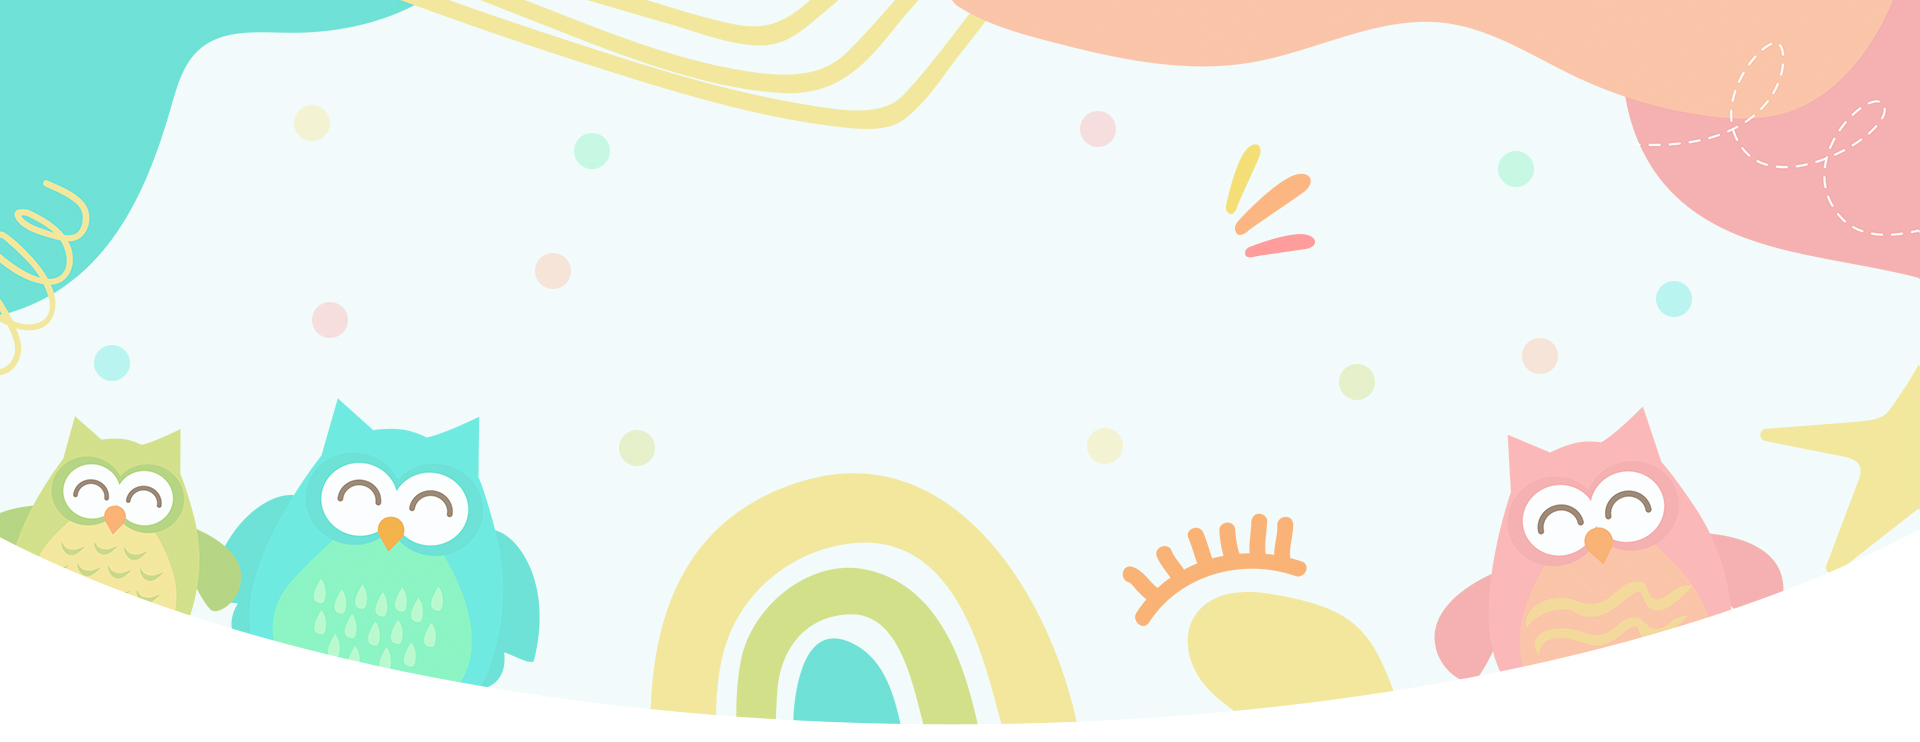
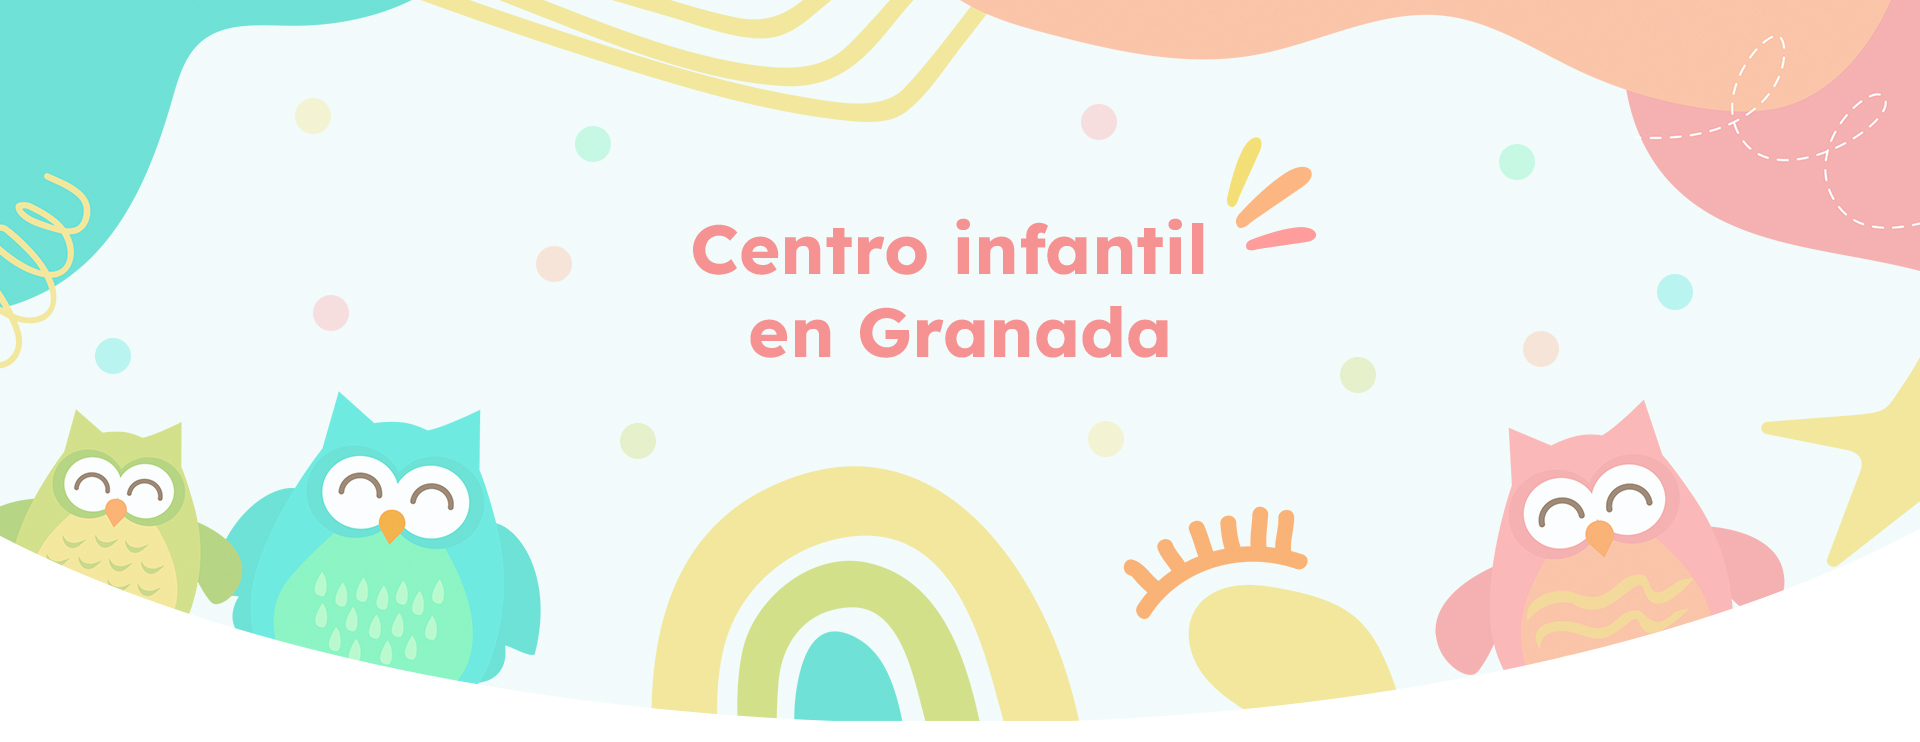
modificar cabecera

diff --git a/src/components/Datos/Datos.css b/src/components/Datos/Datos.css
@@ -1,103 +1,97 @@
-@import "../../constantes/colores.css";
-
 .contenedor {
-    position: relative;
-    background-color: var(--color-amarillo-claro);
-    min-height: auto;
-  }
-  
+  position: relative;
+}
+
+
+
 .contenedor .texto {
-    position: absolute;
+  position: absolute;
+  top: 50%;
+  left: 60%;
+  transform: translate(-30%, -30%);
+
+}
+.contenedor .img-container {
+  position: absolute;
+  top: -180px;
+  left: 20%;
+  transform: translate(-30%, -30%);
+  width: 10%;
+
+}
+.contenedor .img-container2 {
+  position: absolute;
+  top: -180px;
+  left: 40%;
+  transform: translate(-30%, -30%);
+  width: 10%;
+
+}
+.contenedor .img-container3 {
+  position: absolute;
+  top: -180px;
+  left: 60%;
+  transform: translate(-30%, -30%);
+  width: 10%;
+
+}
+.contenedor .img-container4 {
+  position: absolute;
+  top: -180px;
+  left: 80%;
+  transform: translate(-30%, -30%);
+  width: 10%;
+
+}
+.contenedor .textoIcon {
+  position: absolute;
+  top: -40px;
+  left: 20%;
+  transform: translate(-30%, -30%);
+  width: 10%;
+
+}
+.contenedor .textoIcon2 {
+  position: absolute;
+  top: -40px;
+  left: 40%;
+  transform: translate(-30%, -30%);
+  width: 10%;
+
+}
+.contenedor .textoIcon3 {
+  position: absolute;
+  display: flex;
+  top: -40px;
+  left: 60%;
+  transform: translate(-30%, -30%);
+  width: 10%;
+
+}
+.contenedor .textoIcon4 {
+  position: absolute;
+  top: -40px;
+  left: 80%;
+  transform: translate(-30%, -30%);
+  width: 10%;
+
+}
+/* Media queries para ajustar el diseño en diferentes tamaños de pantalla */
+@media (max-width: 768px) {
+.texto {
+    left: 50%;
+    max-width: 100%;
+    font-size: 1.5vw; /* Tamaño de fuente en vw */
+  }
+}
+
+@media (max-width: 576px) {
+  .contenedor .texto {
     top: 50%;
-    left: 60%;
-    transform: translate(-30%, -30%);
-   
-  }
-
-  .img-position1{
-    left: 20%;
-  }
-  .img-position2{
-    left: 40%;
+    left: 50%;
+    max-width: 10%;
+    font-size: 1.5vw; /* Tamaño de fuente en vw */
+      height: 10%;
 
   }
-  .img-position3{
-    left: 60%;
-  }
-  .img-position4{
-    left: 80%;
-  }
-  .backg-amarillo{
-    background-color: var(--color-amarillo-claro);
-    min-height: auto;
-  }
-
-  .contenedor .img-container {
-    position: absolute;
-    top: -150px;
-    transform: translate(-30%, -30%);
-    width: 8%;
-  }
-  .contenedor .textoIcon {
-    position: absolute;
-    top: -40px;
-    transform: translate(-30%, -30%);
-    width: 10%;
-  }
-  .text-position1{
-    left: 20%;
-
-  }
-  .text-position2{
-    left: 40%;
-
-  }
-  .text-position3{
-    left: 60%;
-
-  }
-  .text-position4{
-    left: 80%;
-
-  }
-  .contenedor .textoIcon2 {
-    position: absolute;
-    top: -40px;
-    transform: translate(-30%, -30%);
-    width: 10%;
-   
-  }
-  .contenedor .textoIcon3 {
-    position: absolute;
-    display: flex;
-    top: -40px;
-    transform: translate(-30%, -30%);
-    width: 10%;
-   
-  }
-  .contenedor .textoIcon4 {
-    position: absolute;
-    top: -40px;
-    transform: translate(-30%, -30%);
-    width: 10%;
-   
-  }
-  /* Media queries para ajustar el diseño en diferentes tamaños de pantalla */
-  @media (max-width: 768px) {
- .texto {
-      left: 50%;
-      max-width: 100%;
-      font-size: 1.5vw; /* Tamaño de fuente en vw */
-    }
-  }
-  
-  @media (max-width: 576px) {
-    .contenedor .texto {
-      top: 50%;
-      left: 50%;
-      max-width: 10%;
-      font-size: 1.5vw; /* Tamaño de fuente en vw */
-        height: 10%;
-      
-    }
-  }
+}

diff --git a/src/views/Home/Home.jsx b/src/views/Home/Home.jsx
@@ -1,4 +1,3 @@
-import { CarruselHome } from "../../components/CarruselHome/CarruselHome";
 import { Descripcion } from "../../components/Descripcion/Descripcion";
 import { Caracteristicas } from "../../components/Caracteristicas/Caracteristicas";
 import "./Home.css"; // Pendiente hacer el hover a los botones
@@ -10,13 +9,15 @@ import Docente from "../../components/Docente/Docente";
 import Instalaciones from "../../components/Instalaciones/Instalaciones";
 import { Logo } from "../../components/Logo/Logo";
 import { Footer } from "../../components/Footer/Footer";
+import { Cabecera } from "../../components/Cabecera/Cabecera";
+import cabecera from "../../../public/Imagenes/cabecera.jpg";
 
 export function Home() {
   return (
     <>
       <Logo />
       <BotonesHome />
-      <CarruselHome />
+      <Cabecera imagen={cabecera} />
       <Descripcion />
       <Caracteristicas />
       <Download />

diff --git a/src/components/Covid/Covid.jsx b/src/components/Covid/Covid.jsx
@@ -1,4 +1,4 @@
-import carrusel1 from "../../../public/Imagenes/cabecera.jpg";
+import carrusel1 from "../../../public/Imagenes/Covid/cabecera.jpg";
 import "./CarruselHome.css";
 
 export function CarruselHome() {
@@ -6,11 +6,6 @@ export function CarruselHome() {
     <>
       <div className="contenedor position-relative">
         <img className="img-fluid" src={carrusel1} alt="cabecera" />
-        <div className="">
-          <h1 className=" col-5 texto-carousel text-center">
-            Centro infantil en Granada
-          </h1>
-        </div>
       </div>
     </>
   );

diff --git a/src/components/Cabecera/Cabecera.jsx b/src/components/Cabecera/Cabecera.jsx
@@ -1,0 +1,11 @@
+import "./Cabecera.css";
+
+export function Cabecera({ imagen }) {
+  return (
+    <>
+      <div className="contenedor position-relative">
+        <img className="img-fluid" src={imagen} alt="cabecera" />
+      </div>
+    </>
+  );
+}

diff --git a/src/views/Covid/Covid.jsx b/src/views/Covid/Covid.jsx
@@ -1,0 +1,9 @@
+import { CarruselHome } from "../../components/CarruselHome/CarruselHome";
+
+export function Covid() {
+  return (
+    <>
+      <Covid />
+    </>
+  );
+}
